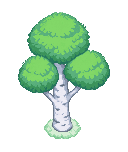
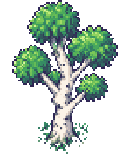
Pasos con sonido según el suelo, árboles, acuario, sillas de perfil y portátil nuevos en estilo propio, e icono de pestaña

diff --git a/src/sprites/assetSizes.ts b/src/sprites/assetSizes.ts
@@ -1,2 +1,2 @@
 // Generated by scripts/build-asset-sizes.mjs. Do not edit by hand.
-export const ASSET_SIZES: Record<string, [number, number]> = {"abstract-painting.png":[32,48],"aeron-chair-black-up.png":[24,24],"aloe-vera.png":[20,28],"arcade-machine-white-up.png":[32,67],"arcade-machine.png":[32,68],"bamboo-planter.png":[20,44],"barcelona-chair-teal-down.png":[23,36],"barcelona-chair-teal-left.png":[22,33],"barcelona-chair-teal-right.png":[22,33],"barcelona-chair-teal-up.png":[22,23],"beanbag-chair-blue-left.png":[24,24],"beanbag-chair-blue-right.png":[24,24],"beanbag-chair-blue-up.png":[26,22],"beanbag-chair-pink-right.png":[24,24],"beanbag-chair-purple-left.png":[24,24],"birch-tree.png":[128,152],"bird-of-paradise-green.png":[36,52],"book-closed-green-down.png":[16,16],"book-closed-green-up.png":[14,16],"book-closed-grey-down.png":[16,16],"book-closed-grey-up.png":[14,16],"book-open-blue-down.png":[28,16],"book-open-blue-up.png":[25,14],"bookcase-tall-black-down.png":[59,59],"bookcase-tall-black-up.png":[59,59],"bookcase-tall-white-down.png":[60,60],"bookcase-tall-white-up.png":[59,59],"ceramic-planter-brown.png":[16,28],"ceramic-planter-white.png":[16,28],"cubicle-shelves-black.png":[72,56],"cubicle-shelves-white-up.png":[72,54],"cubicle-shelves-white.png":[72,56],"digital-artist-computer-grey-up.png":[38,30],"digital-artist-computer.png":[40,36],"document-single-white-down.png":[16,16],"document-single-white-up.png":[16,14],"espresso-machine.png":[32,40],"fern.png":[28,20],"ficus-black-down.png":[26,46],"ficus.png":[28,48],"fiddle-leaf-fig.png":[24,48],"filing-cabinet-black-down.png":[32,44],"filing-cabinet-black-up.png":[30,42],"filing-cabinet-grey-down.png":[32,44],"floating-bookshelf-black-up.png":[44,21],"floating-bookshelf.png":[44,24],"gamer-chair-blue-up.png":[28,40],"gamer-chair.png":[28,44],"globe.png":[24,32],"hardware-dev-computer-blue-up.png":[57,33],"hardware-dev-computer-blue.png":[52,40],"hardware-dev-computer-grey-up.png":[57,28],"hardware-dev-computer-grey.png":[52,40],"hip-wall-art-lightblue-down.png":[96,62],"hip-wall-art.png":[96,60],"inkpen-notes-blue-down.png":[24,20],"inkpen-notes-blue-up.png":[22,18],"kitchen-cabinet-large-black-down.png":[64,32],"kitchen-cabinet-large-grey-down.png":[64,32],"koi-pond.png":[96,96],"laptop-computer-white-down.png":[20,28],"laptop-computer-white-up.png":[20,20],"lawn-chair-blue-down.png":[24,40],"lawn-chair-blue-up.png":[24,27],"maple-tree-green.png":[112,140],"maple-tree-lightgreen.png":[116,140],"mid-century-leather-couch-brown-down.png":[64,37],"mid-century-leather-couch-brown-up.png":[64,28],"mid-century-side-table-lightcoffee-down.png":[24,24],"mid-century-side-table-lightcoffee-up.png":[24,24],"mini-fridge-white-down.png":[24,38],"mini-fridge-white-up.png":[24,38],"mini-fridge.png":[24,40],"modular-couch-corner-blue-down.png":[64,31],"modular-couch-segment-blue-down.png":[34,26],"modular-couch-segment-blue-right.png":[20,48],"modular-couch-segment-blue-up.png":[34,25],"molecular-lamp-black.png":[24,52],"molecular-lamp-grey.png":[24,52],"mondrian-painting-black-up.png":[50,43],"mondrian-painting.png":[52,44],"mug-regular-black-down.png":[16,16],"mug-regular-blue-left.png":[16,16],"mug-wide-coffee-down.png":[16,16],"mug-wide-purple-right.png":[16,16],"office-cabinet-black-down.png":[32,58],"office-desk-white-down.png":[92,41],"office-desk-white-up.png":[92,41],"oval-desk-white-down.png":[92,44],"philodendron.png":[28,40],"pine-tree-large.png":[64,116],"pine-tree-small.png":[48,84],"portfolio-drawers-purple-up.png":[48,35],"portfolio-drawers.png":[48,36],"poster-easel-black-up.png":[30,41],"poster-easel-down.png":[32,44],"poster-easel-left.png":[32,48],"pp501-chair-blue-down.png":[22,27],"pp501-chair-blue-left.png":[18,27],"pp501-chair-blue-right.png":[18,27],"pp501-chair-blue-up.png":[24,22],"round-coffee-table-coffee-down.png":[54,37],"round-table-grey-down.png":[28,32],"rubber-ducky-yellow-left.png":[16,16],"simple-chair-coffee-down.png":[20,32],"simple-chair-coffee-left.png":[22,33],"simple-chair-coffee-right.png":[22,33],"simple-chair-coffee-up.png":[20,21],"simple-coffee-table-black-down.png":[56,32],"simple-table-2x3-white-down.png":[96,74],"single-coffee-machine-purple-down.png":[22,32],"single-coffee-machine.png":[24,32],"small-fishtank-lightteal-down.png":[29,40],"small-fishtank.png":[32,40],"small-potted-hosta-orange.png":[20,24],"small-potted-hosta-white.png":[20,24],"space-chair-red-down.png":[24,28],"space-chair-red-left.png":[21,28],"space-chair-red-right.png":[21,28],"space-chair-red-up.png":[22,19],"sprout.png":[16,24],"tablet-and-phone-grey-down.png":[24,20],"tablet-and-phone-white-down.png":[24,20],"television-screen-wall-grey-down.png":[48,32],"u-shaped-armchair-black-left.png":[24,36],"u-shaped-armchair-black-up.png":[28,32],"wall-cabinet-black-down.png":[32,24],"wall-clock-minimal-face-black-down.png":[24,24],"wall-clock-minimal-face-black-up.png":[22,21],"water-cooler.png":[20,48],"whiteboard.png":[64,52],"z-chair-blue-down.png":[20,28],"z-chair-blue-left.png":[17,26],"z-chair-blue-right.png":[17,26],"z-chair-blue-up.png":[20,18]};
+export const ASSET_SIZES: Record<string, [number, number]> = {"abstract-painting.png":[32,48],"aeron-chair-black-up.png":[24,24],"aloe-vera.png":[20,28],"arcade-machine-white-up.png":[32,67],"arcade-machine.png":[32,68],"bamboo-planter.png":[20,44],"barcelona-chair-teal-down.png":[23,36],"barcelona-chair-teal-left.png":[22,33],"barcelona-chair-teal-right.png":[22,33],"barcelona-chair-teal-up.png":[22,23],"beanbag-chair-blue-left.png":[24,24],"beanbag-chair-blue-right.png":[24,24],"beanbag-chair-blue-up.png":[26,22],"beanbag-chair-pink-right.png":[24,24],"beanbag-chair-purple-left.png":[24,24],"birch-tree.png":[130,154],"bird-of-paradise-green.png":[36,52],"book-closed-green-down.png":[16,16],"book-closed-green-up.png":[14,16],"book-closed-grey-down.png":[16,16],"book-closed-grey-up.png":[14,16],"book-open-blue-down.png":[28,16],"book-open-blue-up.png":[25,14],"bookcase-tall-black-down.png":[59,59],"bookcase-tall-black-up.png":[59,59],"bookcase-tall-white-down.png":[60,60],"bookcase-tall-white-up.png":[59,59],"ceramic-planter-brown.png":[16,28],"ceramic-planter-white.png":[16,28],"cubicle-shelves-black.png":[72,56],"cubicle-shelves-white-up.png":[72,54],"cubicle-shelves-white.png":[72,56],"digital-artist-computer-grey-up.png":[38,30],"digital-artist-computer.png":[40,36],"document-single-white-down.png":[16,16],"document-single-white-up.png":[16,14],"espresso-machine.png":[32,40],"fern.png":[28,20],"ficus-black-down.png":[26,46],"ficus.png":[28,48],"fiddle-leaf-fig.png":[24,48],"filing-cabinet-black-down.png":[32,44],"filing-cabinet-black-up.png":[30,42],"filing-cabinet-grey-down.png":[32,44],"floating-bookshelf-black-up.png":[44,21],"floating-bookshelf.png":[44,24],"gamer-chair-blue-up.png":[28,40],"gamer-chair.png":[28,44],"globe.png":[24,32],"hardware-dev-computer-blue-up.png":[57,33],"hardware-dev-computer-blue.png":[52,40],"hardware-dev-computer-grey-up.png":[57,28],"hardware-dev-computer-grey.png":[52,40],"hip-wall-art-lightblue-down.png":[96,62],"hip-wall-art.png":[96,60],"inkpen-notes-blue-down.png":[24,20],"inkpen-notes-blue-up.png":[22,18],"kitchen-cabinet-large-black-down.png":[64,32],"kitchen-cabinet-large-grey-down.png":[64,32],"koi-pond.png":[96,96],"laptop-computer-white-down.png":[20,28],"laptop-computer-white-up.png":[20,20],"lawn-chair-blue-down.png":[24,40],"lawn-chair-blue-up.png":[24,27],"maple-tree-green.png":[112,140],"maple-tree-lightgreen.png":[114,140],"mid-century-leather-couch-brown-down.png":[64,37],"mid-century-leather-couch-brown-up.png":[64,28],"mid-century-side-table-lightcoffee-down.png":[24,24],"mid-century-side-table-lightcoffee-up.png":[24,24],"mini-fridge-white-down.png":[24,38],"mini-fridge-white-up.png":[24,38],"mini-fridge.png":[24,40],"modular-couch-corner-blue-down.png":[64,31],"modular-couch-segment-blue-down.png":[34,26],"modular-couch-segment-blue-right.png":[20,48],"modular-couch-segment-blue-up.png":[34,25],"molecular-lamp-black.png":[24,52],"molecular-lamp-grey.png":[24,52],"mondrian-painting-black-up.png":[50,43],"mondrian-painting.png":[52,44],"mug-regular-black-down.png":[16,16],"mug-regular-blue-left.png":[16,16],"mug-wide-coffee-down.png":[16,16],"mug-wide-purple-right.png":[16,16],"office-cabinet-black-down.png":[32,58],"office-desk-white-down.png":[92,41],"office-desk-white-up.png":[92,41],"oval-desk-white-down.png":[92,44],"philodendron.png":[28,40],"pine-tree-large.png":[62,113],"pine-tree-small.png":[46,82],"portfolio-drawers-purple-up.png":[48,35],"portfolio-drawers.png":[48,36],"poster-easel-black-up.png":[30,41],"poster-easel-down.png":[32,44],"poster-easel-left.png":[32,48],"pp501-chair-blue-down.png":[22,27],"pp501-chair-blue-left.png":[19,27],"pp501-chair-blue-right.png":[19,27],"pp501-chair-blue-up.png":[24,22],"round-coffee-table-coffee-down.png":[54,37],"round-table-grey-down.png":[28,32],"rubber-ducky-yellow-left.png":[16,16],"simple-chair-coffee-down.png":[20,32],"simple-chair-coffee-left.png":[22,31],"simple-chair-coffee-right.png":[22,31],"simple-chair-coffee-up.png":[20,21],"simple-coffee-table-black-down.png":[56,32],"simple-table-2x3-white-down.png":[96,74],"single-coffee-machine-purple-down.png":[22,32],"single-coffee-machine.png":[24,32],"small-fishtank-lightteal-down.png":[29,40],"small-fishtank.png":[32,40],"small-potted-hosta-orange.png":[20,24],"small-potted-hosta-white.png":[20,24],"space-chair-red-down.png":[24,28],"space-chair-red-left.png":[21,28],"space-chair-red-right.png":[21,28],"space-chair-red-up.png":[22,19],"sprout.png":[16,24],"tablet-and-phone-grey-down.png":[24,20],"tablet-and-phone-white-down.png":[24,20],"television-screen-wall-grey-down.png":[48,32],"u-shaped-armchair-black-left.png":[24,36],"u-shaped-armchair-black-up.png":[28,32],"wall-cabinet-black-down.png":[32,24],"wall-clock-minimal-face-black-down.png":[24,24],"wall-clock-minimal-face-black-up.png":[22,21],"water-cooler.png":[20,48],"whiteboard.png":[64,52],"z-chair-blue-down.png":[20,28],"z-chair-blue-left.png":[20,28],"z-chair-blue-right.png":[20,28],"z-chair-blue-up.png":[20,18]};

diff --git a/src/App.tsx b/src/App.tsx
@@ -20,6 +20,7 @@ import { ObjectThumb } from './sprites/objects';
 import AvatarEditor, { AvatarPortrait } from './AvatarEditor';
 import { useEditHistory } from './useEditHistory';
 import { useSfu } from './useSfu';
+import { footstepsEnabled, setFootstepsEnabled } from './footsteps';
 import { fetchWorkspace, knownWorkspaces, rememberWorkspace, workspaceUrl } from './workspaces';
 import { categoryOf, colorName, facingName, objectDescription, objectName, searchText } from './catalogNames';
 import { MeetingMusic } from './meetingMusic';
@@ -393,6 +394,7 @@ export default function App() {
   }, [editItem, selectedObject, rotateEditItem, rotateSelected, office.send, editHistory, panel]);
   const remove = useCallback((id: string) => { editHistory.record.remove(id); office.send({ type: 'object:remove', id }); }, [office.send, editHistory.record]);
   const moveObject = useCallback((id: string, x: number, y: number, free?: boolean) => { editHistory.record.update(id); office.send({ type: 'object:update', id, x, y, free: !!free }); }, [office.send, editHistory.record]);
+  const [footsteps, setFootsteps] = useState(footstepsEnabled);
   const [freePlacement, setFreePlacement] = useState(() => { try { return localStorage.getItem('office-free-placement') === '1'; } catch { return false; } });
   useEffect(() => { try { localStorage.setItem('office-free-placement', freePlacement ? '1' : '0'); } catch { /* storage unavailable */ } }, [freePlacement]);
   async function join(e: React.FormEvent) {
@@ -651,7 +653,7 @@ export default function App() {
         <label>{t('Nombre completo')}<span className="required">*</span><input value={name} onChange={e => setName(e.target.value)} required maxLength={40} placeholder={t('p. ej. Ana Pérez')} /></label>
         <div className="profile-actions"><button className="primary" type="submit">{t('Guardar')}</button></div></form>
         : dialog === 'invite' ? <><span className="dialog-icon"><Users size={27} /></span><h2 id="dialog-title">{t('Invitar colaboradores')}</h2><p>{isLocalHost ? t('Abre este enlace en otra pestaña de este computador para compartir la oficina.') : t('Comparte este enlace con tu equipo para que entre a la oficina.')}</p><label>{t('Enlace de la oficina')}<input readOnly value={inviteLink()} onFocus={e => e.target.select()} /></label><button className="primary enter-button" onClick={() => void copyLink()}>{copied ? <Check size={17} /> : <Copy size={17} />}{copied ? t('Enlace copiado') : t('Copiar enlace')}</button>{isLocalHost ? <p className="footnote">{t('Esta oficina se ejecuta en tu computador. El acceso desde otros equipos necesita configurar un servidor.')}</p> : config.accessRequired ? <p className="footnote">{t('El enlace incluye la clave de invitación: compártelo solo con tu equipo.')}</p> : null}</>
-          : dialog === 'settings' ? <><span className="dialog-icon"><Settings2 size={27} /></span><h2 id="dialog-title">{t('Apariencia')}</h2><p>{t('Elige cómo se ve la interfaz de tu oficina.')}</p><label>{t('Tema')}<select value={theme} onChange={e => setTheme(e.target.value as Theme)}><option value="system">{t('Sistema')}</option><option value="light">{t('Claro')}</option><option value="dark">{t('Oscuro')}</option></select></label><label>{t('Idioma')}<select value={lang} onChange={e => setLanguage(e.target.value as Language)}>{LANGUAGES.map(option => <option key={option.id} value={option.id}>{option.label}</option>)}</select></label><label>{t('Arte del mapa')}<select value={art} onChange={e => setArtPack(e.target.value as ArtPack)}><option value="reference">{t('Referencia (idéntico a Gather)')}</option><option value="original">{t('Original (libre para redistribuir)')}</option></select></label><p className="footnote">{t('La opción Sistema se adapta a la apariencia de tu computador.')}</p><button className="primary enter-button" onClick={() => setDialog(null)}>{t('Listo')}</button></>
+          : dialog === 'settings' ? <><span className="dialog-icon"><Settings2 size={27} /></span><h2 id="dialog-title">{t('Apariencia')}</h2><p>{t('Elige cómo se ve la interfaz de tu oficina.')}</p><label>{t('Tema')}<select value={theme} onChange={e => setTheme(e.target.value as Theme)}><option value="system">{t('Sistema')}</option><option value="light">{t('Claro')}</option><option value="dark">{t('Oscuro')}</option></select></label><label>{t('Idioma')}<select value={lang} onChange={e => setLanguage(e.target.value as Language)}>{LANGUAGES.map(option => <option key={option.id} value={option.id}>{option.label}</option>)}</select></label><label>{t('Arte del mapa')}<select value={art} onChange={e => setArtPack(e.target.value as ArtPack)}><option value="reference">{t('Referencia (idéntico a Gather)')}</option><option value="original">{t('Original (libre para redistribuir)')}</option></select></label><label className="settings-toggle"><input type="checkbox" checked={footsteps} onChange={e => { setFootstepsEnabled(e.target.checked); setFootsteps(e.target.checked); }} />{t('Sonido de pasos al caminar')}</label><p className="footnote">{t('La opción Sistema se adapta a la apariencia de tu computador.')}</p><button className="primary enter-button" onClick={() => setDialog(null)}>{t('Listo')}</button></>
             : <><span className="dialog-icon"><CircleHelp size={27} /></span><h2 id="dialog-title">{t('Controles de la oficina')}</h2><p>{t('Acércate a tus compañeros para conversar.')}</p><div className="shortcuts"><div><span>{t('Caminar')}</span><kbd>↑ ↓ ← → / WASD</kbd></div><div><span>{t('Caminar más rápido')}</span><kbd>{t('Shift + flechas')}</kbd></div><div><span>{t('Ir a un lugar')}</span><kbd>{t('Doble clic')}</kbd></div><div><span>{t('Sentarse / levantarse')}</span><kbd>{t('Clic en silla / E')}</kbd></div><div><span>{t('Explorar el mapa')}</span><kbd>Arrastrar</kbd></div><div><span>{t('Buscar personas')}</span><kbd>⌘ / Ctrl + K</kbd></div><div><span>{t('Volver al área de trabajo')}</span><kbd>⌘ / Ctrl + D</kbd></div></div><button className="primary enter-button" onClick={() => setDialog(null)}>{t('Entendido')}</button></>}
     </div></div>}
   </div>;

diff --git a/src/footsteps.ts b/src/footsteps.ts
@@ -1,0 +1,72 @@
+import { AREAS, TILE } from '../shared/vivo-map.js';
+
+/** Footsteps synthesised in the browser (no recordings): a sound per floor material, slightly varied every step. */
+export type Material = 'wood' | 'carpet' | 'grass';
+const BY_DEPTH = [...AREAS].filter(area => area.floor).sort((a, b) => b.depth - a.depth);
+const STORAGE = 'office-footsteps';
+
+export function floorMaterial(point: { x: number; y: number }): Material {
+  const tx = Math.floor(point.x / TILE), ty = Math.floor(point.y / TILE);
+  const area = BY_DEPTH.find(candidate => tx >= candidate.x && tx < candidate.x + candidate.w && ty >= candidate.y && ty < candidate.y + candidate.h);
+  const floor = area?.floor ?? 'NewStyleGrass';
+  return floor.startsWith('Carpet') ? 'carpet' : floor.includes('Grass') ? 'grass' : 'wood';
+}
+
+export const footstepsEnabled = () => { try { return localStorage.getItem(STORAGE) !== 'off'; } catch { return true; } };
+export const setFootstepsEnabled = (on: boolean) => { try { localStorage.setItem(STORAGE, on ? 'on' : 'off'); } catch { /* storage unavailable */ } };
+
+let context: AudioContext | null = null;
+let noise: AudioBuffer | null = null;
+let left = false;
+function audio() {
+  if (typeof AudioContext === 'undefined') return null;
+  context ??= new AudioContext();
+  if (context.state === 'suspended') void context.resume();
+  if (!noise) {
+    noise = context.createBuffer(1, Math.floor(context.sampleRate * 0.25), context.sampleRate);
+    const data = noise.getChannelData(0);
+    for (let i = 0; i < data.length; i++) data[i] = Math.random() * 2 - 1;
+  }
+  return context;
+}
+
+/** One footstep on the given material; running steps are a little louder and shorter. */
+export function playStep(material: Material, running = false) {
+  if (!footstepsEnabled()) return;
+  const ctx = audio(); if (!ctx || !noise || ctx.state !== 'running') return;
+  const now = ctx.currentTime, vary = 0.85 + Math.random() * 0.3;
+  left = !left; // alternate feet: a touch higher and lower
+  const pitch = vary * (left ? 1.04 : 0.96);
+  const level = (running ? 1.25 : 1) * 0.5;
+  const out = ctx.createGain(); out.gain.value = level; out.connect(ctx.destination);
+
+  const burst = (filterType: BiquadFilterType, frequency: number, q: number, gain: number, attack: number, decay: number) => {
+    const source = ctx.createBufferSource(); source.buffer = noise; source.playbackRate.value = pitch;
+    const filter = ctx.createBiquadFilter(); filter.type = filterType; filter.frequency.value = frequency * pitch; filter.Q.value = q;
+    const envelope = ctx.createGain();
+    envelope.gain.setValueAtTime(0.0001, now);
+    envelope.gain.exponentialRampToValueAtTime(gain, now + attack);
+    envelope.gain.exponentialRampToValueAtTime(0.0001, now + attack + decay);
+    source.connect(filter); filter.connect(envelope); envelope.connect(out);
+    source.start(now, Math.random() * 0.1); source.stop(now + attack + decay + 0.02);
+  };
+  const thump = (frequency: number, gain: number, decay: number) => {
+    const osc = ctx.createOscillator(); osc.type = 'sine';
+    osc.frequency.setValueAtTime(frequency * pitch, now); osc.frequency.exponentialRampToValueAtTime(frequency * 0.6 * pitch, now + decay);
+    const envelope = ctx.createGain();
+    envelope.gain.setValueAtTime(0.0001, now); envelope.gain.exponentialRampToValueAtTime(gain, now + 0.004); envelope.gain.exponentialRampToValueAtTime(0.0001, now + decay);
+    osc.connect(envelope); envelope.connect(out); osc.start(now); osc.stop(now + decay + 0.02);
+  };
+
+  if (material === 'wood') { // a dry knock on boards
+    thump(170, 0.35, 0.07);
+    burst('bandpass', 1800, 1.4, 0.22, 0.002, 0.05);
+  } else if (material === 'carpet') { // soft and muffled
+    thump(110, 0.18, 0.09);
+    burst('lowpass', 520, 0.7, 0.14, 0.006, 0.08);
+  } else { // grass: a short rustle of blades
+    burst('highpass', 3200, 0.6, 0.12, 0.012, 0.11);
+    burst('bandpass', 900, 0.8, 0.05, 0.01, 0.08);
+  }
+  setTimeout(() => out.disconnect(), 400);
+}

diff --git a/src/VivoScene.tsx b/src/VivoScene.tsx
@@ -1,5 +1,6 @@
 import { useEffect, useMemo, useRef, useState } from 'react';
 import { DoorOpen, Headphones, Sofa } from 'lucide-react';
+import { floorMaterial, playStep } from './footsteps';
 import type { PointerEvent as ReactPointerEvent, ReactNode } from 'react';
 import type { EditItem, FocusRoom, OfficeObject, Participant, Facing } from './types';
 import './scene.css';
@@ -414,6 +415,7 @@ export default function VivoScene({ participants, selfId, objects, zoom, simplif
           const from = tileCenter(tile.current), to = tileCenter(next);
           tile.current = next;
           step.current = { from, to, startedAt: time, duration: keys.current.has('shift') ? RUN_STEP_MS : STEP_MS };
+          playStep(floorMaterial(to), keys.current.has('shift'));
           setMotion({ facing: facing ?? facingFor(to.x - from.x, to.y - from.y), moving: true, frame: walkFrameAt(time) });
           wasMoving = true;
         } else {

diff --git a/src/styles.css b/src/styles.css
@@ -767,3 +767,5 @@ button .avatar { pointer-events: none; }
 /* Clicking furniture gives it keyboard focus; the glow already marks the selection, so no browser focus box. */
 .scene-base-object:focus, .scene-added-object:focus, .scene-base-object:focus-visible, .scene-added-object:focus-visible { outline: none; }
 .scene-base-object.is-editable:focus-visible:not(.is-selected), .scene-added-object.is-editable:focus-visible:not(.is-selected) { filter: drop-shadow(0 0 1px #ffffffaa); }
+.settings-toggle { display: flex !important; flex-direction: row !important; align-items: center; gap: 10px; font-size: 14px; cursor: pointer; }
+.settings-toggle input { width: 16px; height: 16px; accent-color: var(--accent, #5a4fcf); }

diff --git a/index.html b/index.html
@@ -1,2 +1,3 @@
 <!doctype html>
-<html lang="en"><head><meta charset="UTF-8"/><meta name="viewport" content="width=device-width, initial-scale=1.0"/><meta name="theme-color" content="#f5f5f3"/><title>Open Office For All</title></head><body><div id="root"></div><script type="module" src="/src/main.tsx"></script></body></html>
+<html lang="en"><head>
+    <link rel="icon" type="image/svg+xml" href="/favicon.svg" /><meta charset="UTF-8"/><meta name="viewport" content="width=device-width, initial-scale=1.0"/><meta name="theme-color" content="#f5f5f3"/><title>Open Office For All</title></head><body><div id="root"></div><script type="module" src="/src/main.tsx"></script></body></html>

diff --git a/src/i18n/en.ts b/src/i18n/en.ts
@@ -456,4 +456,5 @@ export const EN: Record<string, string> = {
   "Solo los administradores pueden cambiar el nombre.": "Only admins can rename this space.",
   "No se pudo cambiar el nombre.": "The name could not be changed.",
   "Cambiar nombre": "Rename",
+  "Sonido de pasos al caminar": "Footstep sounds when walking",
 };

diff --git a/public/assets/pixel/objects/README.md b/public/assets/pixel/objects/README.md
@@ -18,3 +18,9 @@ reads like the reference office: the same kind of object, the same orientation, 
 reference colours as the palette and the exact footprint. Every pixel is newly
 generated; no reference sprite was used as an input image. Chair side views are drawn
 facing right and mirrored for the left.
+
+## Third pass (2026-10-29)
+
+Trees, the fish tank, the wooden chair, the side views of the chairs and the laptop were drawn again in our own style:
+generic descriptions, our approved pieces as style guides and only the footprint size. Nothing from the reference was used as
+input. Chair side views are flat profiles facing right, mirrored for the left.
